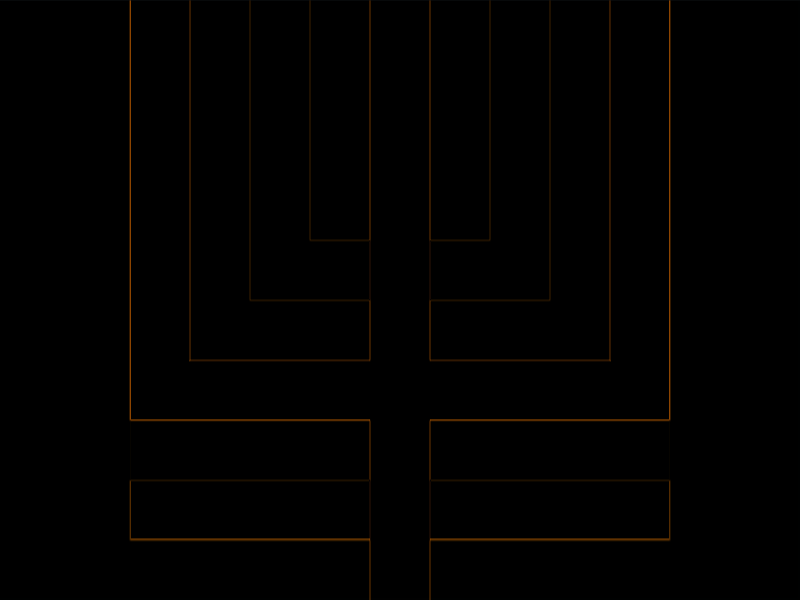
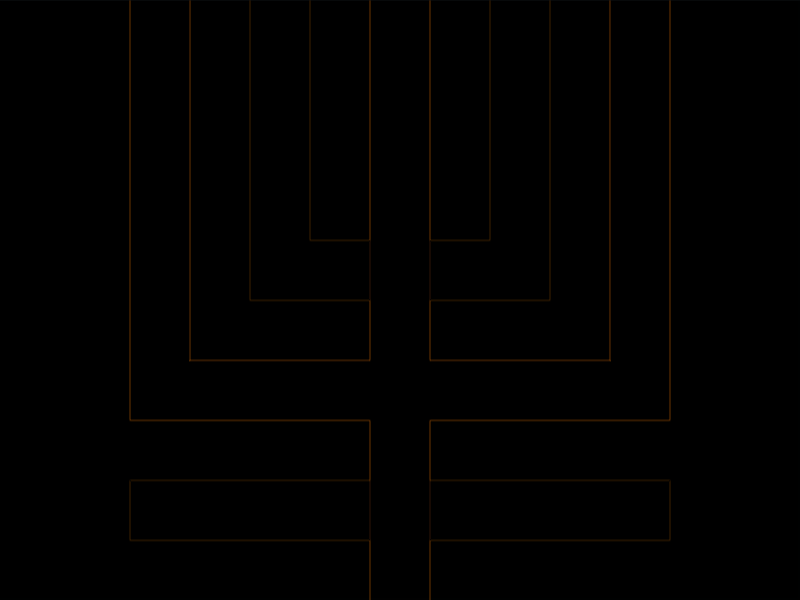
Score: 662.96, Characters: 194 (100.00% match) - CSSHub

diff --git a/Battles/Battle #9/#45. Magical Tree/README.md b/Battles/Battle #9/#45. Magical Tree/README.md
@@ -22,7 +22,7 @@ Challenge: <https://cssbattle.dev/play/45>
 ## Code
 
 ```html
-<style>&{color:998235;margin:-30 125 150;border:32q solid;background:#1A4341;box-shadow:0 0 0 32q#1A4341,0 0 0 63q#F3AC3C,0 32q 0 63q#1A4341,0 63q 0 63q;*{margin:0 30-200;background:#F3AC3C
+<style>&{color:998235;margin:-30 125 150;border:32q solid;background:#1A4341;box-shadow:0 0 0 32q#1A4341,0 0 0 60px#F3AC3C,0 32q 0 60px #1A4341,0 60px 0 60px;*{margin:0 30-200;background:#F3AC3C
 ```
 
 ## Prettified code
@@ -36,9 +36,9 @@ Challenge: <https://cssbattle.dev/play/45>
   background: #1a4341;
   box-shadow:
     0 0 0 32Q #1a4341,
-    0 0 0 63Q #f3ac3c,
-    0 32Q 0 63Q #1a4341,
-    0 63Q 0 63Q;
+    0 0 0 60px #f3ac3c,
+    0 32Q 0 60px #1a4341,
+    0 60px 0 60px;
   * {
     margin: 0 30 -200;
     background: #f3ac3c;

diff --git a/README.md b/README.md
@@ -100,7 +100,7 @@ Note - I have not yet complete all the challenges.
 <summary><strong>Battle #9 (1)</strong></summary>
 
 <ul>
-<li><a href="./Battles/Battle%20%239/%2345.%20Magical%20Tree/">#45. Magical Tree</a> (189 Characters)</li>
+<li><a href="./Battles/Battle%20%239/%2345.%20Magical%20Tree/">#45. Magical Tree</a> (194 Characters)</li>
 </ul>
 </details>
 </li>
